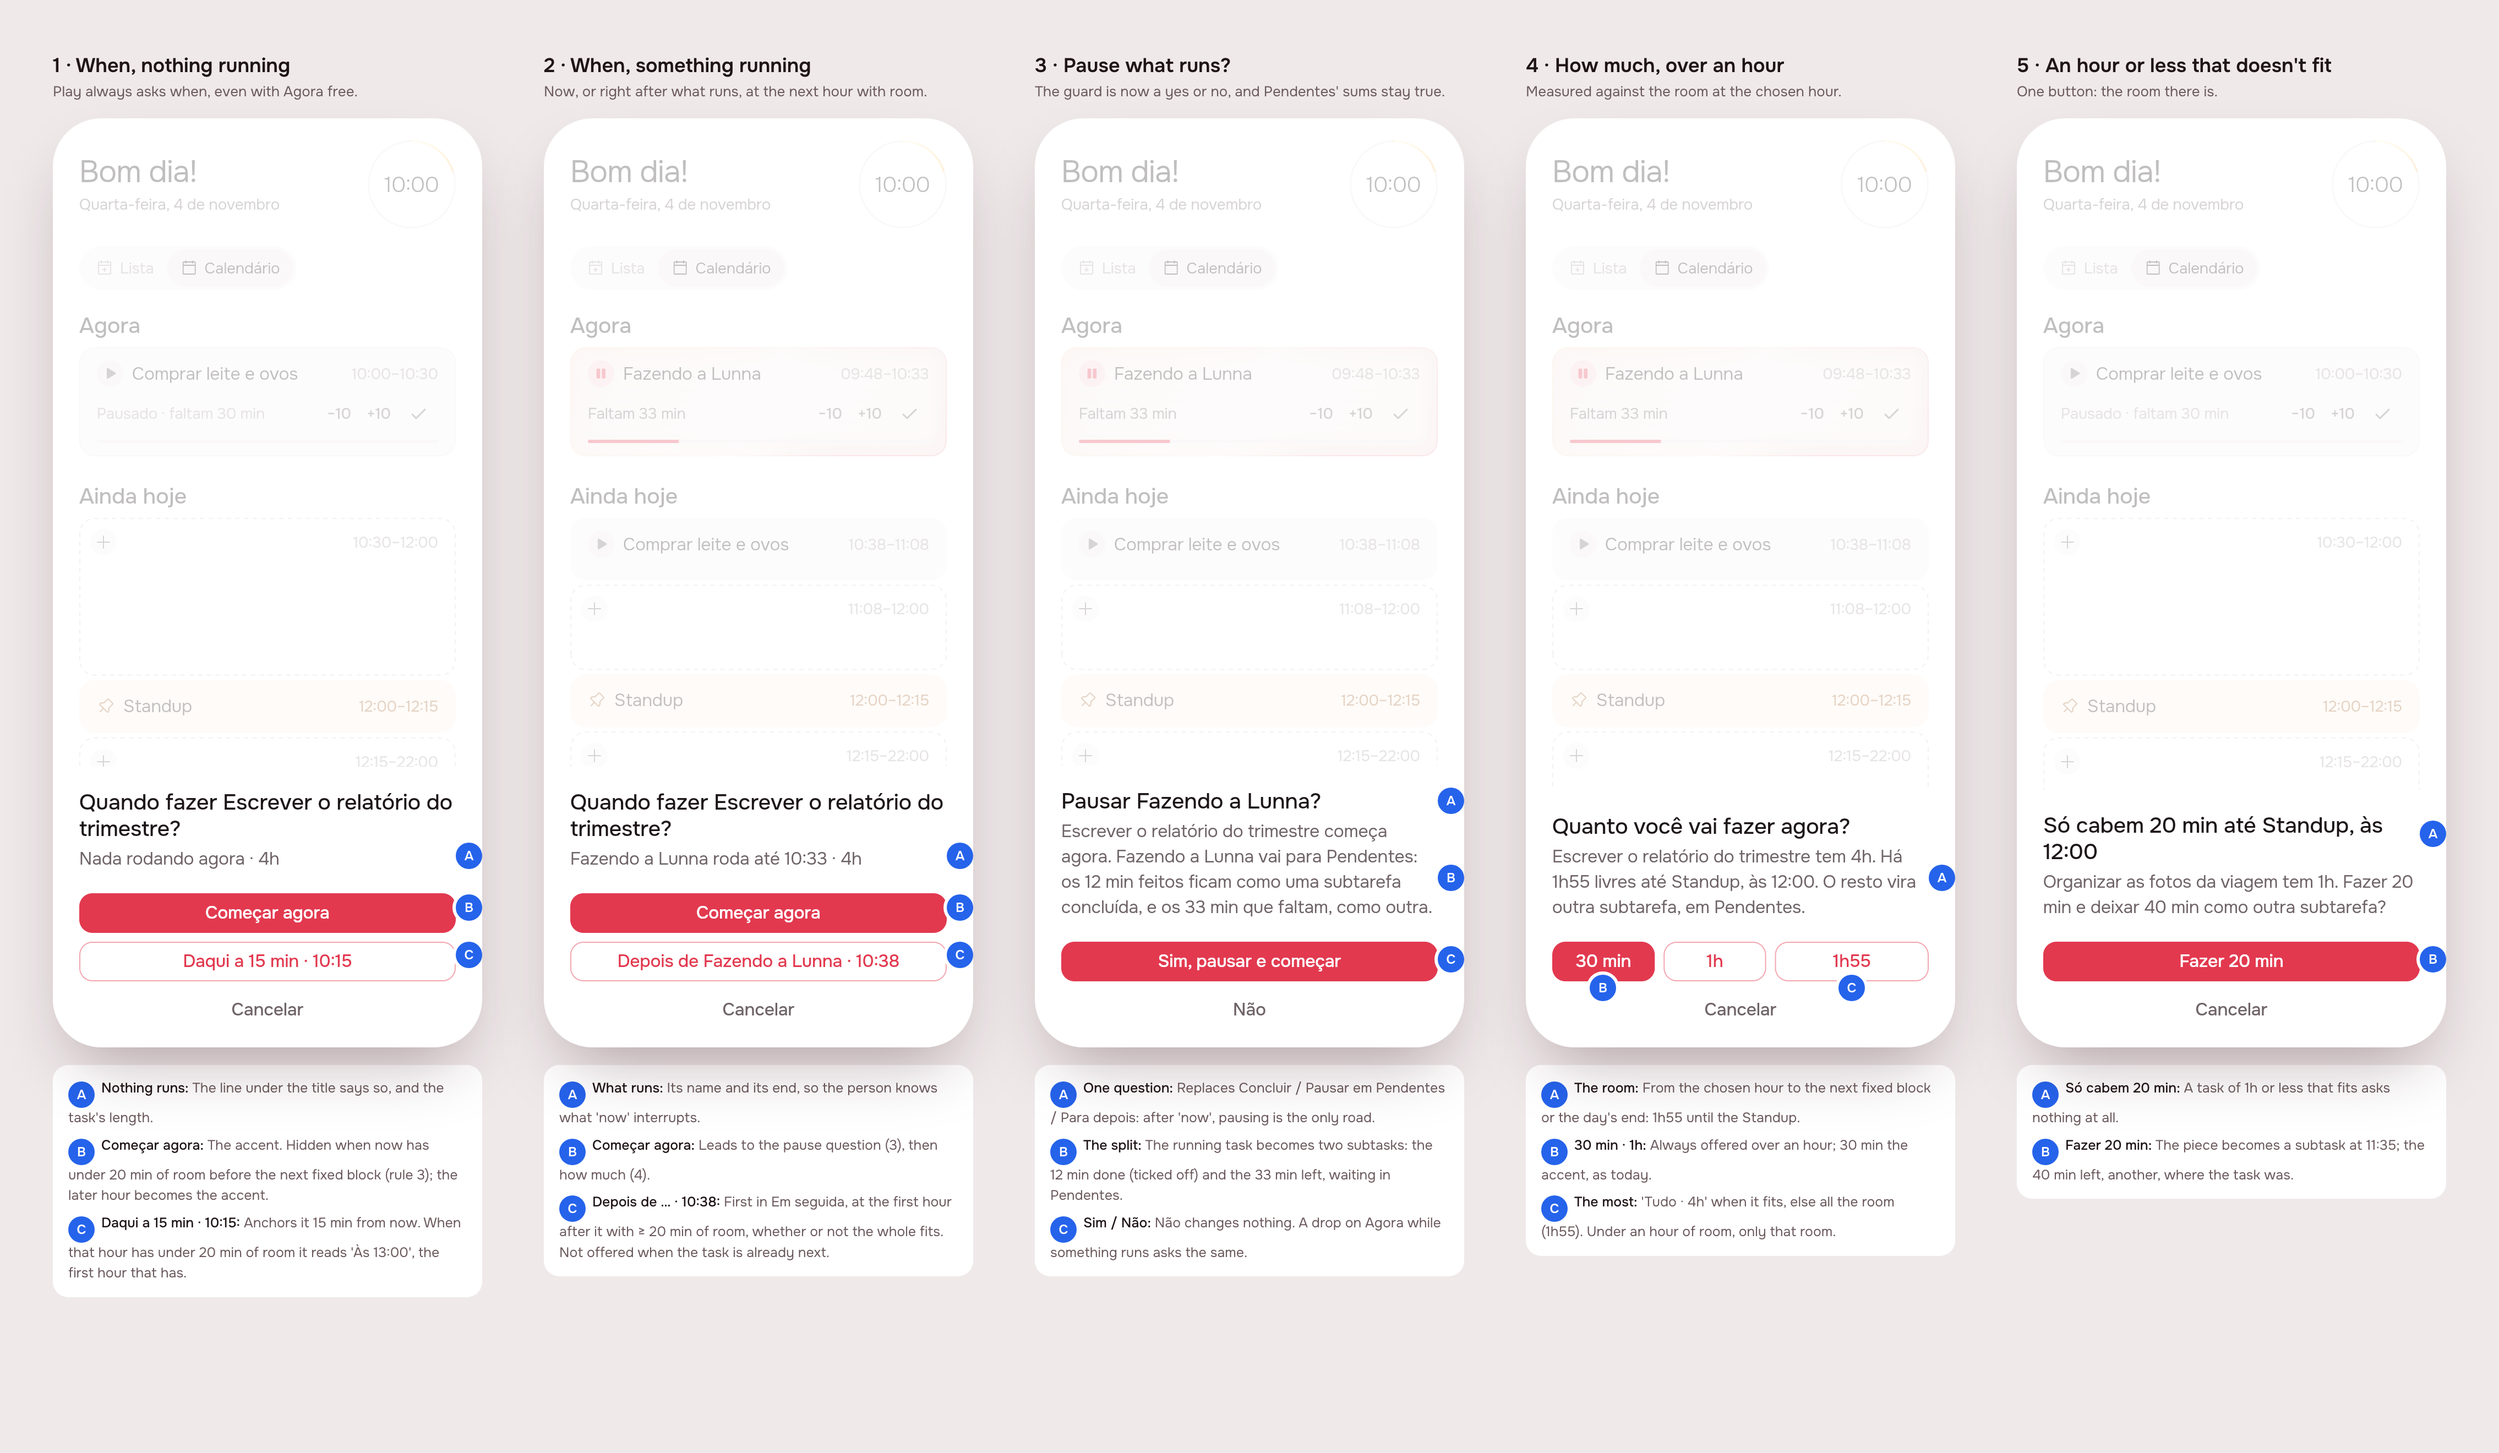
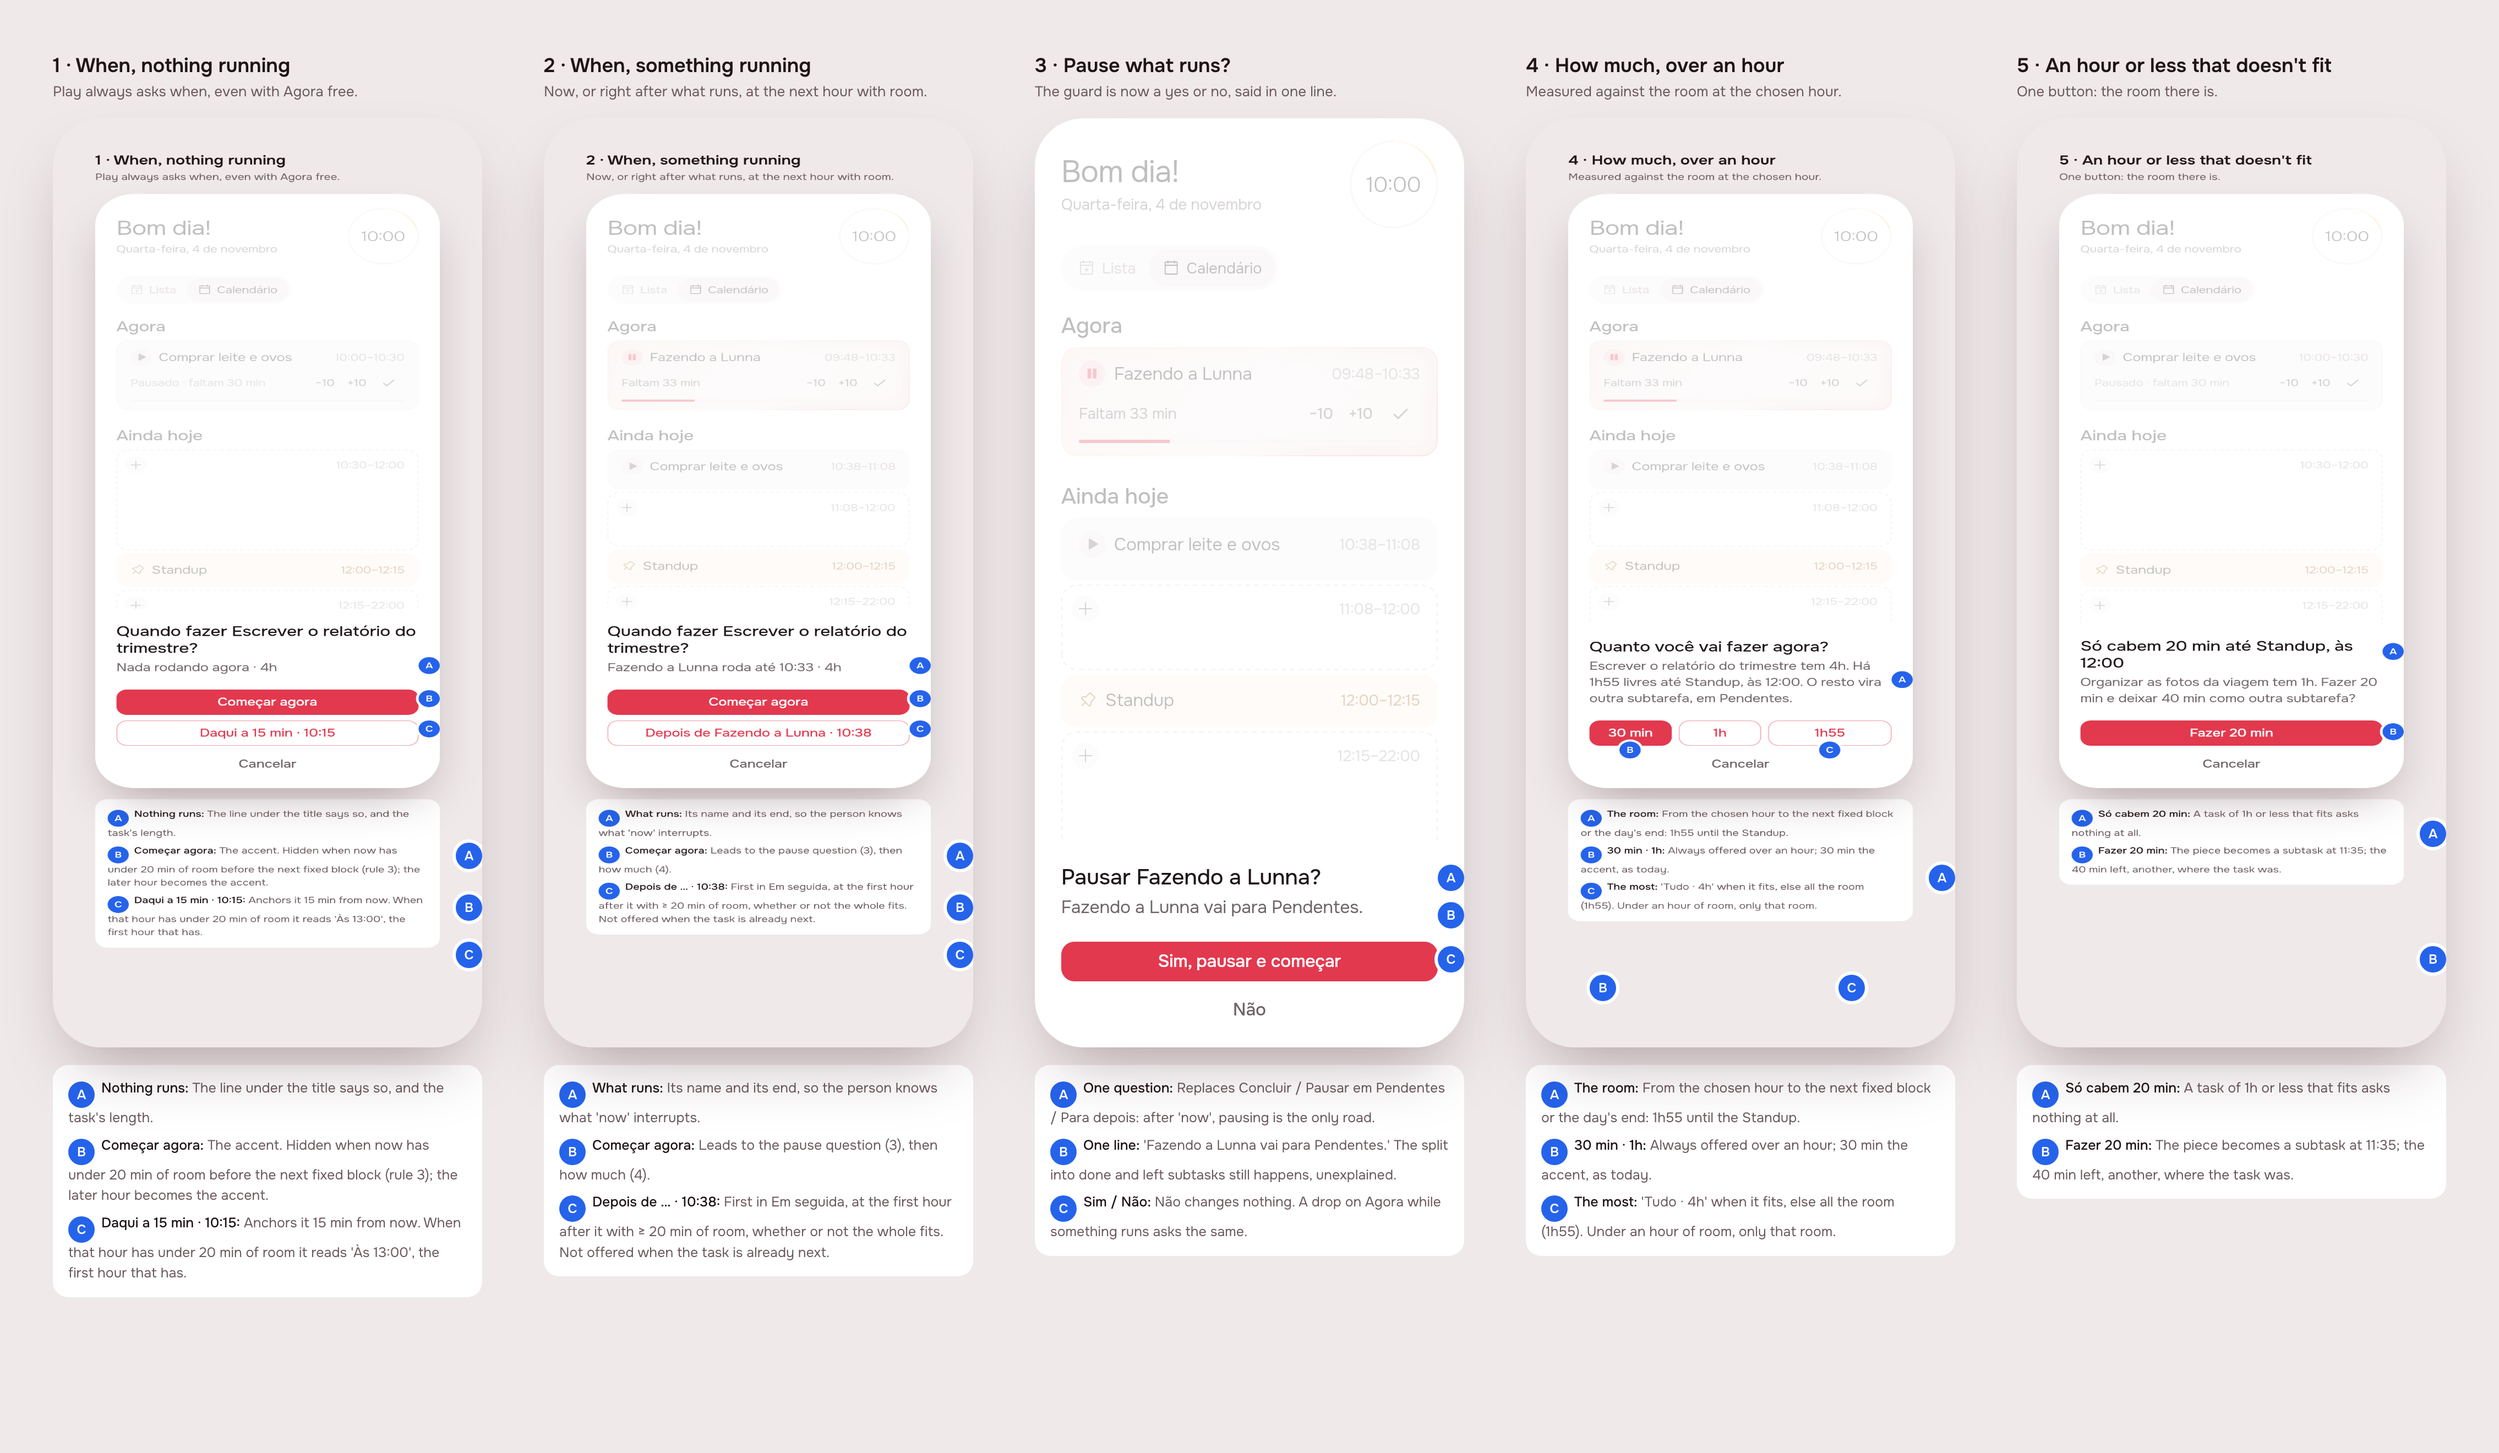
create(#89): revise · Dialogs improvements

diff --git a/app/lib/plan/view/play_sheet.dart b/app/lib/plan/view/play_sheet.dart
@@ -699,30 +699,19 @@ class PlayMuchQuestion extends StatelessWidget {
 
 /// {@template pause_question}
 /// The guard after *Começar agora* while something runs (#89): one yes or
-/// no. Yes pauses [current] into Pendentes, split in two subtasks (the
-/// [done] minutes, ticked off, and the [left] ones), and begins [next].
+/// no, saying only that [current] goes to Pendentes. Yes pauses it there
+/// (split in two subtasks, the minutes done and the ones left, by the
+/// server) and begins what was played.
 /// {@endtemplate}
 class PauseQuestion extends StatelessWidget {
   /// {@macro pause_question}
   const PauseQuestion({
-    required this.next,
     required this.current,
-    required this.done,
-    required this.left,
     super.key,
   });
 
-  /// What begins.
-  final String next;
-
   /// What runs, and is paused.
   final String current;
-
-  /// Minutes of [current] done so far.
-  final int done;
-
-  /// Minutes of [current] still owed.
-  final int left;
 
   @override
   Widget build(BuildContext context) {
@@ -733,12 +722,7 @@ class PauseQuestion extends StatelessWidget {
         Text(l10n.guardPauseTitle(current), style: AppTypography.title),
         const SizedBox(height: AppSpacing.s1),
         Text(
-          l10n.guardPauseBody(
-            next,
-            current,
-            formatMinutes(l10n, done),
-            formatMinutes(l10n, left),
-          ),
+          l10n.guardPauseBody(current),
           style: AppTypography.body.copyWith(color: AppColors.ink2),
         ),
         const SizedBox(height: AppSpacing.s5),

diff --git a/app/packages/l10n/lib/src/gen/app_localizations.dart b/app/packages/l10n/lib/src/gen/app_localizations.dart
@@ -3752,8 +3752,8 @@ abstract class AppLocalizations {
   /// No description provided for @guardPauseBody.
   ///
   /// In pt, this message translates to:
-  /// **'{next} começa agora. {title} vai para Pendentes: os {done} feitos ficam como uma subtarefa concluída, e os {left} que faltam, como outra.'**
-  String guardPauseBody(String next, String title, String done, String left);
+  /// **'{title} vai para Pendentes.'**
+  String guardPauseBody(String title);
 
   /// No description provided for @guardPauseYes.
   ///

diff --git a/app/packages/l10n/lib/src/gen/app_localizations_pt.dart b/app/packages/l10n/lib/src/gen/app_localizations_pt.dart
@@ -2423,8 +2423,8 @@ class AppLocalizationsPt extends AppLocalizations {
   }
 
   @override
-  String guardPauseBody(String next, String title, String done, String left) {
-    return '$next começa agora. $title vai para Pendentes: os $done feitos ficam como uma subtarefa concluída, e os $left que faltam, como outra.';
+  String guardPauseBody(String title) {
+    return '$title vai para Pendentes.';
   }
 
   @override

diff --git a/app/lib/dialogs_preview.dart b/app/lib/dialogs_preview.dart
@@ -60,7 +60,7 @@ class _Scene extends StatelessWidget {
         laterAt: at(10, 38),
       ),
       // Now, while something runs: pause it, yes or no.
-      3 => PauseQuestion(next: report, current: running, done: 12, left: 33),
+      3 => PauseQuestion(current: running),
       // How much, now: 4 h with 1h55 free before the standup.
       4 => PlayMuchQuestion(
         title: report,

diff --git a/product/delivery/2026-11-04-dialogs/README.md b/product/delivery/2026-11-04-dialogs/README.md
@@ -55,6 +55,10 @@ From the issue, verbatim:
 >
 > The reason for all of this is that the math for the pending tasks should be sound
 
+The design was reviewed on the issue, and the person replied:
+
+> you just dont need to overexplain on "Pausar fazendo a Lunna". Just to "Fazendo a lunna vai para pendentes" is enough
+
 ## 2. The design
 
 ![The board](img/mockup-board.png)
@@ -95,10 +99,12 @@ play (Plano, Pendentes, Para depois, the calendar, a delivery's page):
 
 **3. The pause** (`PauseQuestion`, replacing `GuardSheet`'s three
 answers): after *Começar agora* (or a drop on Agora) while something
-runs, one question, ***Pausar Fazendo a Lunna?*** — *Sim, pausar e
-começar* / *Não*. Yes always pauses into **Pendentes** and **splits** what
-ran: the minutes done become a subtask ticked off, the minutes left
-another subtask, not done. No question about where the rest goes.
+runs, one question, ***Pausar Fazendo a Lunna?***, and one line under
+it, *Fazendo a Lunna vai para Pendentes.* — *Sim, pausar e começar* /
+*Não*. Yes always pauses into **Pendentes** and **splits** what ran: the
+minutes done become a subtask ticked off, the minutes left another
+subtask, not done. The sheet doesn't explain the split (review), and asks
+nothing about where the rest goes.
 
 **2. How much** (`PlayMuchQuestion`), measured at the hour chosen (now,
 the later hour, or where it was dropped), on the task, or on **the
@@ -139,7 +145,7 @@ until the last answer; a dismissed sheet leaves the day as it was.
 | 1C | The later hour, idle | *Daqui a 15 min · 10:15*, an anchor; *Às 13:00* when 15 min from now has no 20 min of room |
 | 2C | The later hour, busy | *Depois de … · 10:38*: first in Em seguida, the first hour with 20 min of room; hidden when already next |
 | 3A | The guard | one yes/no, *Pausar …?*; *Concluir o atual* and *Para depois* go |
-| 3B | What a pause does | the running task splits into done + left subtasks, the rest in Pendentes |
+| 3B | The line under it | only *Fazendo a Lunna vai para Pendentes.* (review: no account of the split); the split into done + left subtasks still happens |
 | 3C | Não | changes nothing (no Cancelar under it) |
 | 4A | The room | from the chosen hour to the next fixed thing or the day's end, named in the body |
 | 4B | Pieces | 30 min (the accent) and 1 h, always over an hour |
@@ -180,6 +186,9 @@ into chunks that fit the free blocks, each its own row.
   has its one button as the accent.
 - **A drop of a task over an hour on free room** now asks how much there
   too (the issue's "very similar"); today only Em seguida and Agora ask.
+- **The pause's line after the review**: the title stays the question
+  (*Pausar Fazendo a Lunna?*) and the body is only the person's sentence;
+  the minutes done and left are not named anywhere on the sheet.
 - **Falar com a Lunna leaves the how-much sheet**: the issue lists the
   options exactly. The composer's + stays the way to talk.
 
@@ -209,7 +218,9 @@ Phase 3 starts here and Phase 4 removes this section.
   `playMuchNowTitle`, `playMuchAtTitle`, `playMuchRoomUntil`,
   `playMuchRestNow`, `playMuchRestStays`, `playMuchShortTitle`,
   `playMuchShortBody`, `playMuchDo`, `playMuchUntil`, `playMuchDayEnd`,
-  `guardPauseTitle`, `guardPauseBody`, `guardPauseYes`, `guardPauseNo`.
+  `guardPauseTitle`, `guardPauseBody` (`{title} vai para Pendentes.`,
+  after the review), `guardPauseYes`, `guardPauseNo`. `PauseQuestion`
+  takes only `current`.
   The strings the old sheets used go when they do.
 
 ### Server
@@ -244,7 +255,8 @@ Phase 3 starts here and Phase 4 removes this section.
   `playPending`, Plano's play, the calendar's `onPlay` and a delivery's
   page play on a subtask.
 - `GuardSheet` becomes `PauseQuestion` (move it to `timeline`, which
-  draws the guard), posting `pause_current` on yes.
+  draws the guard), posting `pause_current` on yes. Its body is one line,
+  *{title} vai para Pendentes.*; the split is not explained on screen.
 - Drops: Agora → pause (if running) → how much at now; Em seguida and
   free room → how much at that hour. Post once, after the last answer.
 - Widget tests: `playPieces` table, the when sheet's three shapes, the
